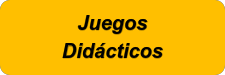
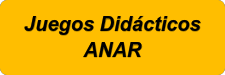
Listo el cambio de botón de juegos didácticos.

diff --git a/joins/templates/website-base.html b/joins/templates/website-base.html
@@ -39,6 +39,10 @@
 	</script>
 	<!-- Botones utilizados y personalizables: 
 	https://www.imagefu.com/create/button
+		Propiedades: Sin profundidad ni sombras, tamaño 225x75
+		Bordes: 7 en cada esquina.
+		Colores:
+			Amarillo: #FFBE00
 	-->
 			
     <body>	
